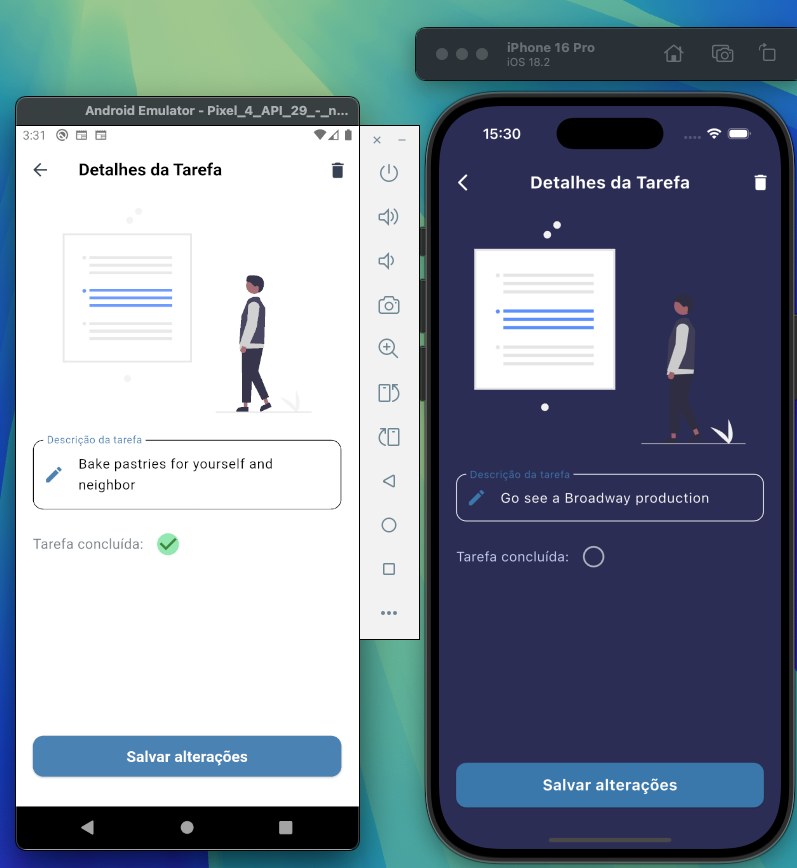
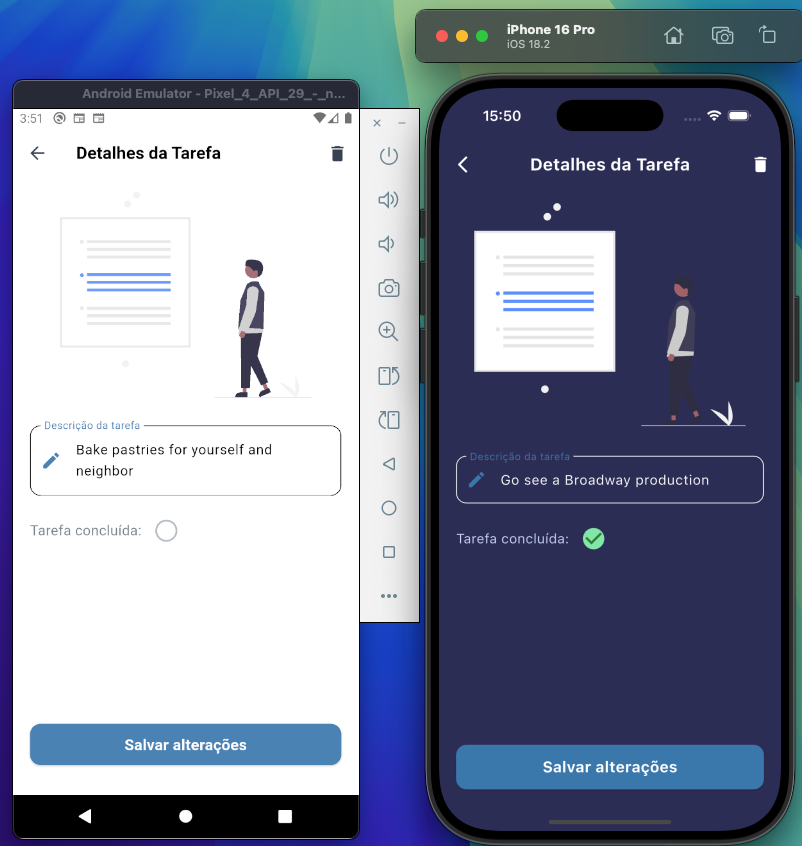
<fix> correção imagem e delete

Changed region(s): [[0.0, 0.0, 1.0, 1.0], [0.0903, 0.3073, 0.2108, 0.3688], [0.813, 0.3381, 0.8733, 0.4303]]

diff --git a/lib/app/modules/to_do/presentation/widgets/to_do_item_widget.dart b/lib/app/modules/to_do/presentation/widgets/to_do_item_widget.dart
@@ -9,11 +9,13 @@ class ToDoItemWidget extends StatelessWidget {
   final ToDoEntity todo;
   final VoidCallback onTap;
   final ValueChanged<bool?> onChanged;
+  final VoidCallback onDelete;
 
   const ToDoItemWidget({
     required this.todo,
     required this.onTap,
     required this.onChanged,
+    required this.onDelete,
     super.key,
   });
 
@@ -31,7 +33,7 @@ class ToDoItemWidget extends StatelessWidget {
       color:
           isDark && todo.completed
               ? AppColors.cardBackgroundDark.withValues(alpha: 0.2)
-              : Theme.of(context).cardColor, //
+              : Theme.of(context).cardColor,
       margin: EdgeInsets.symmetric(vertical: size.height * 0.007, horizontal: size.width * 0.04),
       shape: RoundedRectangleBorder(
         borderRadius: BorderRadius.circular(12.0),
@@ -67,6 +69,7 @@ class ToDoItemWidget extends StatelessWidget {
           horizontal: size.width * 0.02,
           vertical: size.height * 0.005,
         ),
+        trailing: IconButton(icon: const Icon(Icons.delete_outline), onPressed: onDelete),
       ),
     );
   }

diff --git a/lib/app/modules/to_do/presentation/pages/to_do_page.dart b/lib/app/modules/to_do/presentation/pages/to_do_page.dart
@@ -95,6 +95,9 @@ class _ToDoPageState extends State<ToDoPage> {
                           onChanged:
                               (completed) =>
                                   _bloc.add(ToggleToDoEvent(id: todo.id, completed: completed!)),
+                          onDelete: () {
+                            _bloc.add(DeleteToDoEvent(todo.id));
+                          },
                         );
                       },
                     ),
@@ -122,6 +125,9 @@ class _ToDoPageState extends State<ToDoPage> {
                           onChanged:
                               (completed) =>
                                   _bloc.add(ToggleToDoEvent(id: todo.id, completed: completed!)),
+                          onDelete: () {
+                            _bloc.add(DeleteToDoEvent(todo.id));
+                          },
                         );
                       },
                     ),
